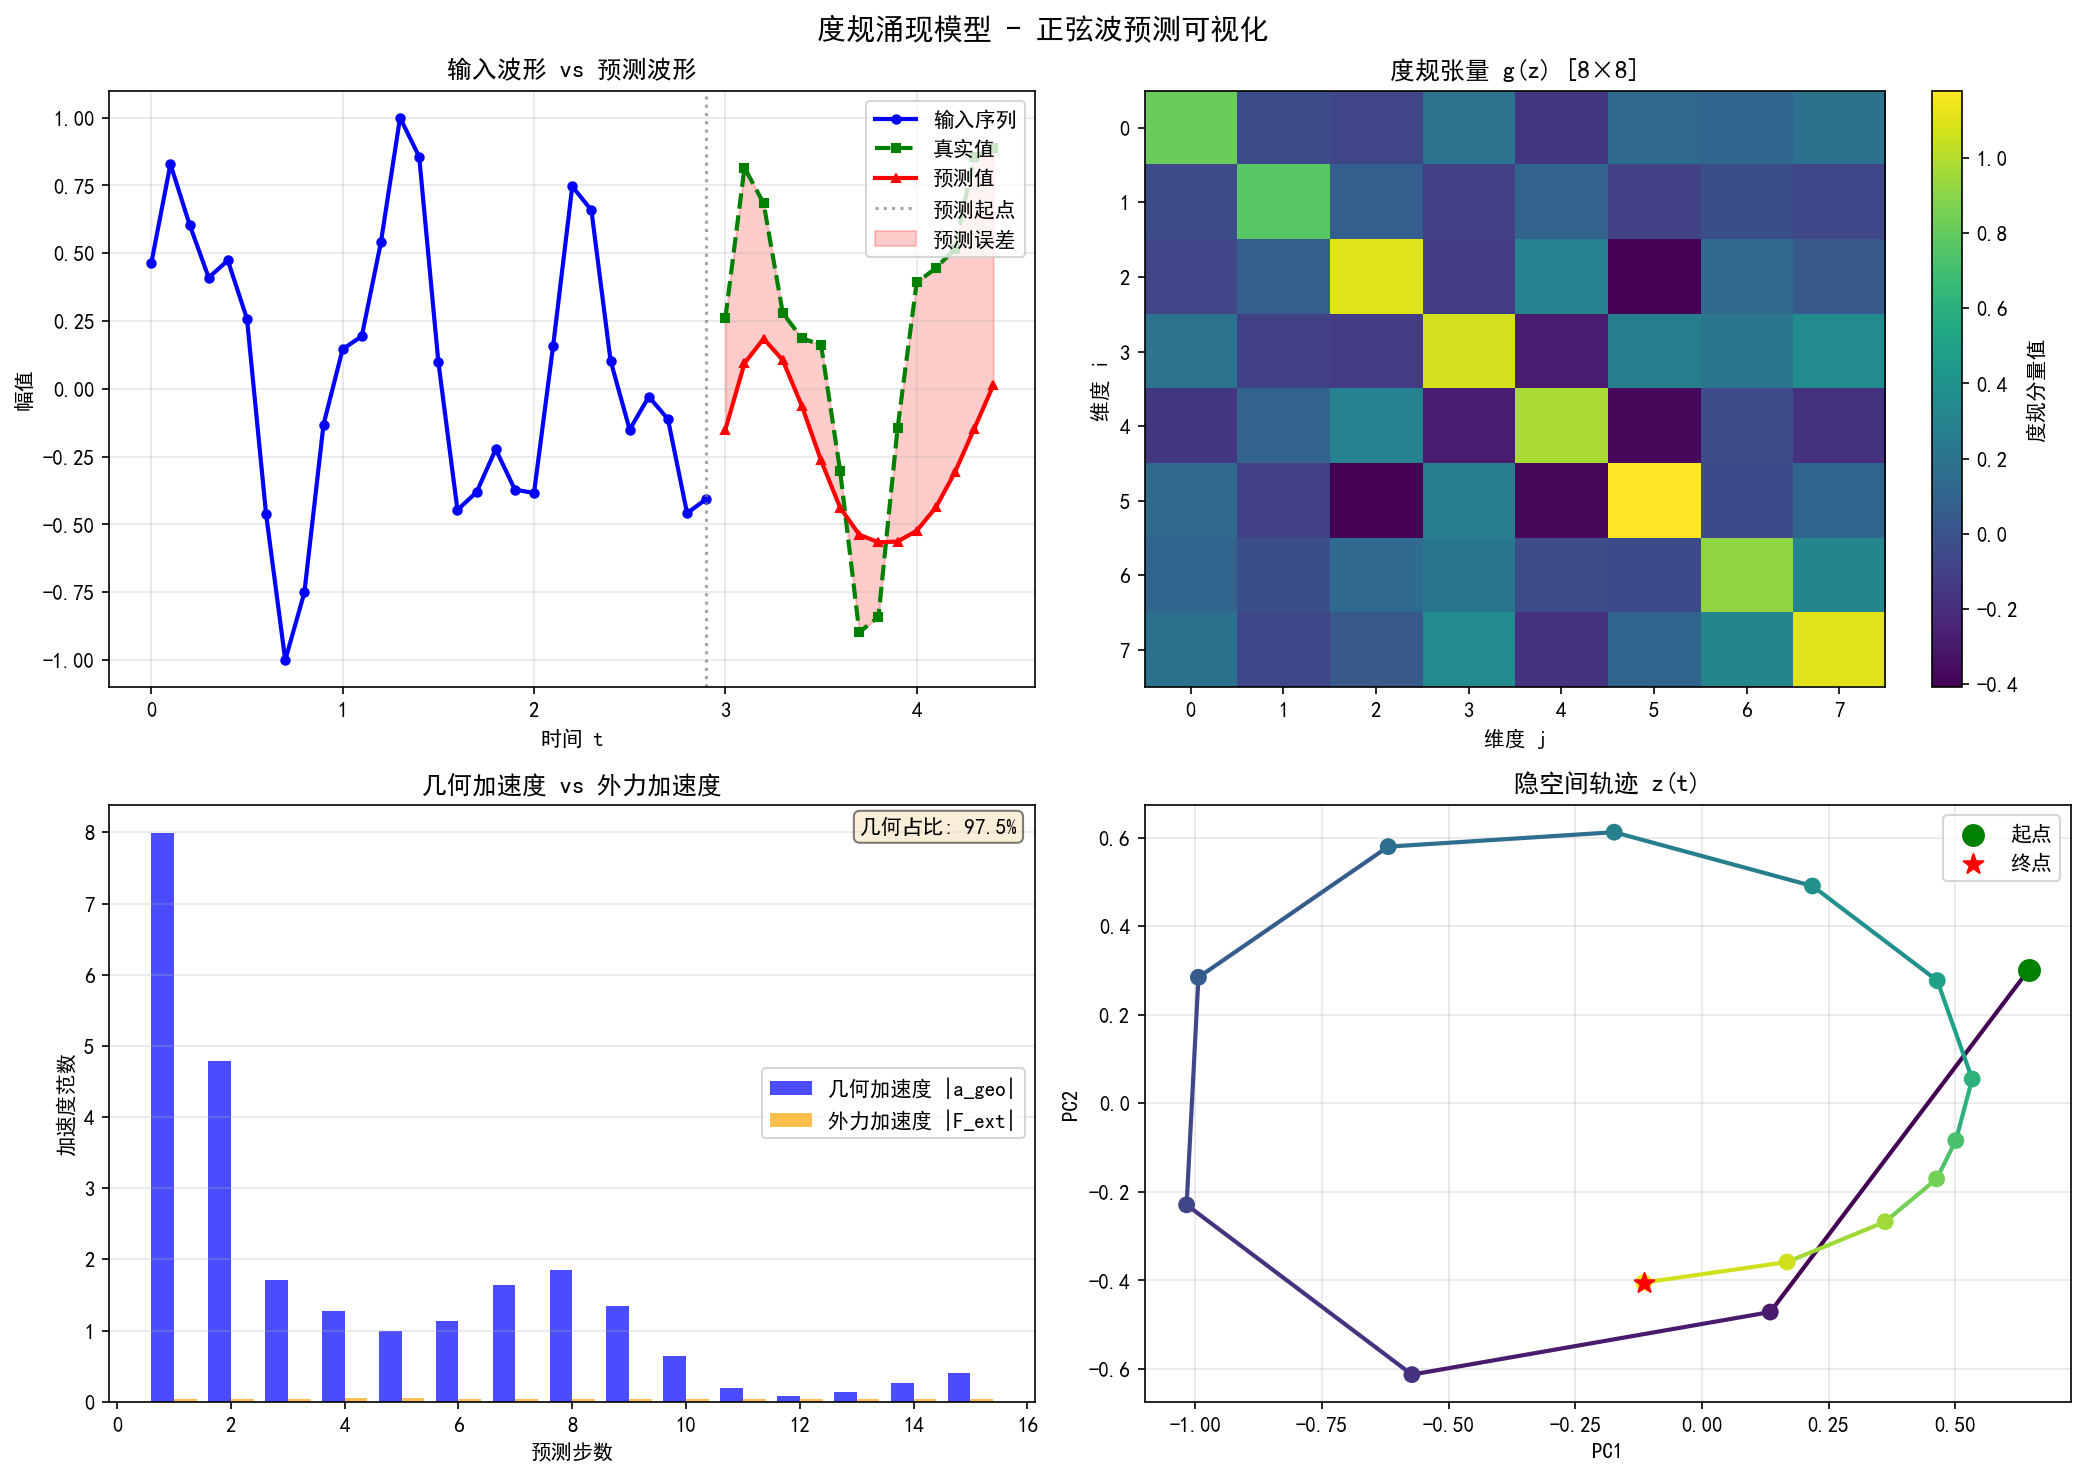
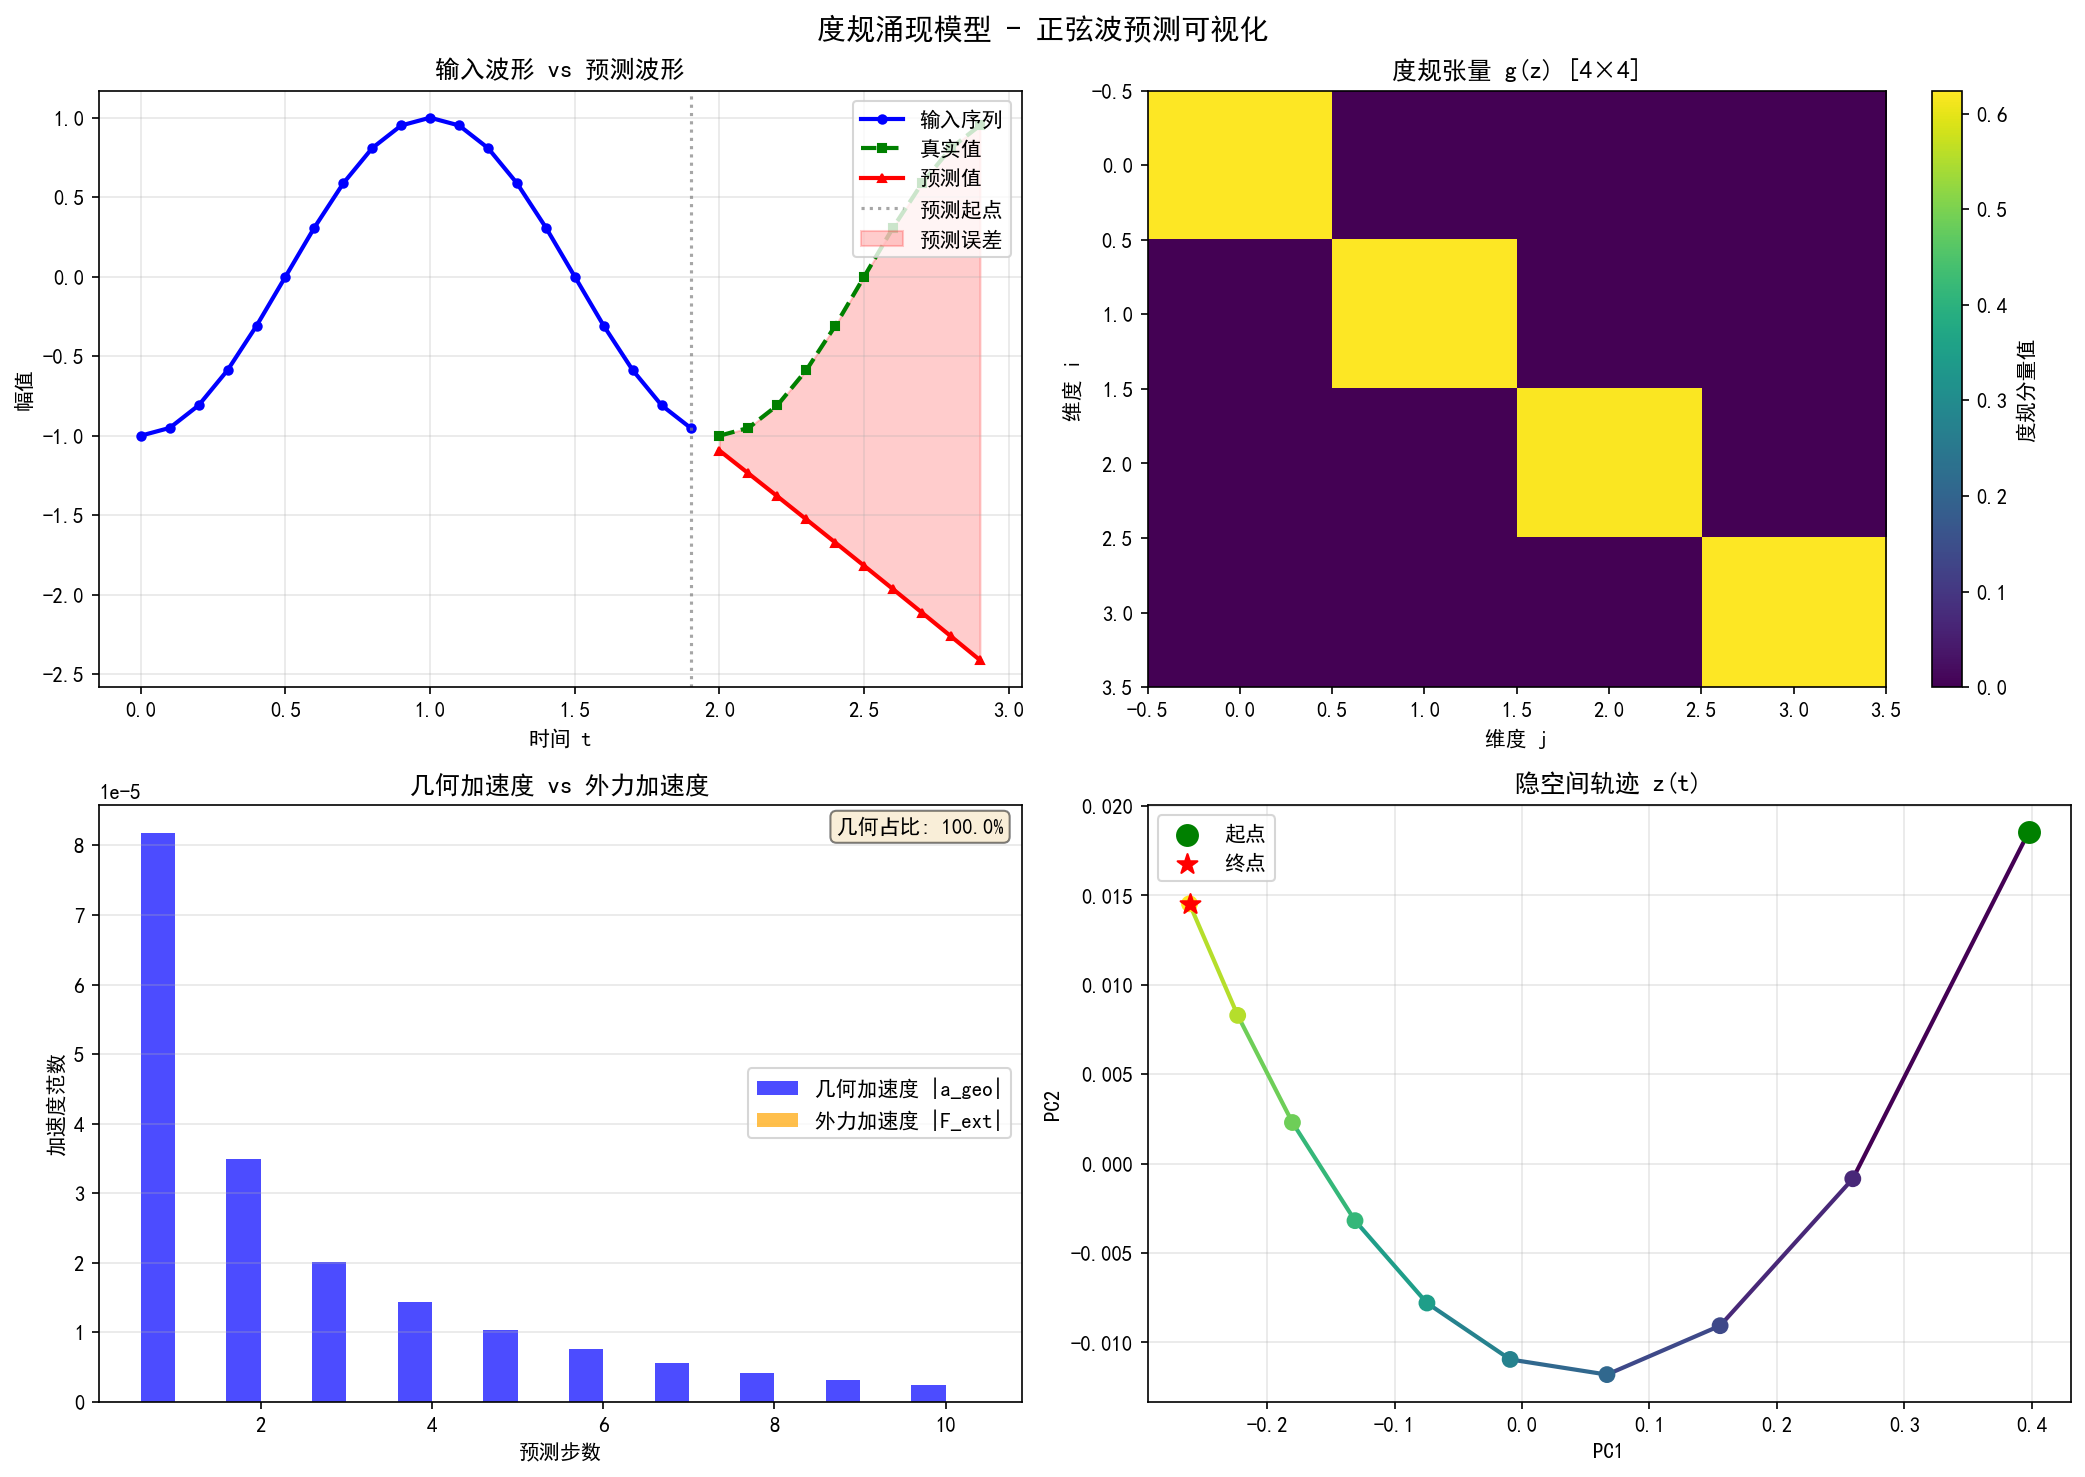
feat: 正弦波纯几何预测测试(100%几何占比)

diff --git a/evolution/test_sinwave.py b/evolution/test_sinwave.py
@@ -87,21 +87,39 @@ def dynamic_ss(epoch: int, total: int, ss_max: float = 0.6) -> float:
     return ss_max * progress
 
 
+def generate_simple_sinwave(
+    seq_len: int,
+    freq: float = 0.5,
+    amp: float = 1.0,
+    phase: float = 0.0,
+    dt: float = 0.1,
+) -> np.ndarray:
+    """
+    生成简单的单频正弦波
+    
+    y(t) = amp * sin(2π * freq * t + phase)
+    """
+    t = np.arange(seq_len) * dt
+    y = amp * np.sin(2 * np.pi * freq * t + phase)
+    return y
+
+
 def train_sinwave_model(
-    epochs: int = 300,
-    z_dim: int = 8,
-    n_train_samples: int = 50,
-    seq_len: int = 20,
+    epochs: int = 10,
+    z_dim: int = 4,
+    n_train_samples: int = 10,
+    seq_len: int = 40,
     seed: int = 42,
-    fw_max: float = 10.0,
-    ss_max: float = 0.6,
     verbose: bool = True,
 ) -> Tuple[torch.nn.Module, Dict]:
     """
-    训练正弦波预测模型
+    训练正弦波预测模型 - 纯几何版
     
-    Returns:
-        (训练好的模型, 训练信息)
+    特点：
+    1. 只用 10 条简单正弦波训练
+    2. z_dim=4 小模型
+    3. 完全禁止外力，纯几何推导
+    4. 目标: 100% 几何占比
     """
     from .model import MetricEvolutionModel
     
@@ -111,86 +129,72 @@ def train_sinwave_model(
     
     if verbose:
         print(f"\n{'='*60}")
-        print("正弦波预测模型训练")
-        print(f"  配置: z_dim={z_dim}, epochs={epochs}")
-        print(f"  优化: fw_max={fw_max}, ss_max={ss_max}")
+        print("正弦波预测 - 纯几何推导（外力=0）")
+        print(f"  z_dim={z_dim}, epochs={epochs}")
         print('='*60)
     
     # 创建模型
     model = MetricEvolutionModel(
         z_dim=z_dim, input_dim=1,
-        hidden_mult=6, unconstrained=False,
+        hidden_mult=4, unconstrained=False,
     ).to(device).to(dtype)
     
-    optimizer = torch.optim.AdamW(model.parameters(), lr=2e-4, weight_decay=0.01)
-    scheduler = CosineAnnealingWarmRestarts(optimizer, T_0=100, T_mult=2, eta_min=1e-5)
+    # 禁用外力网络的梯度
+    for param in model.external_force.parameters():
+        param.requires_grad = False
+        param.data.zero_()  # 置零
+    
+    optimizer = torch.optim.Adam(model.parameters(), lr=1e-3)
+    
+    # 预生成 10 条训练数据
+    train_data = []
+    freq = 0.5
+    for i in range(n_train_samples):
+        phase = i * 2 * np.pi / n_train_samples
+        y = generate_simple_sinwave(seq_len, freq=freq, amp=1.0, phase=phase)
+        seq = torch.tensor(y, device=device, dtype=dtype).unsqueeze(0)
+        train_data.append(seq)
     
     history = {'loss': [], 'geo_ratio': []}
     
     for epoch in range(1, epochs + 1):
         model.train()
-        fw = dynamic_fw(epoch, epochs, 1.0, fw_max)
-        ss = dynamic_ss(epoch, epochs, ss_max)
         
         total_loss = 0
         total_geo = 0
-        total_ext = 0
         
-        for _ in range(n_train_samples):
-            # 随机生成不同参数的正弦波
-            freqs = [np.random.uniform(0.5, 2.0) for _ in range(3)]
-            amps = [np.random.uniform(0.3, 1.0) for _ in range(3)]
-            phases = [np.random.uniform(0, 2*np.pi) for _ in range(3)]
+        for seq in train_data:
+            out = model.forward(seq[:, :-1])
+            target = seq[:, -1]
             
-            _, y = generate_complex_sinwave(
-                seq_len + 5, 
-                frequencies=freqs, 
-                amplitudes=amps, 
-                phases=phases,
-                noise_std=0.01,
-            )
+            # 纯几何损失：只用测地线加速度
+            pred = out['x_last'] + out['dx_last'] + model.decoder(out['a_geodesic'])[0]
+            loss = ((pred - target) ** 2).mean()
             
-            # 随机起点
-            start = np.random.randint(0, 5)
-            seq = torch.tensor(y[start:start+seq_len], device=device, dtype=dtype).unsqueeze(0)
+            # 度规正则化
+            g_last = out['g'][:, -1]
+            det_g = torch.linalg.det(g_last)
+            det_reg = ((det_g - 0.1) ** 2).mean() * 0.01
             
-            # Scheduled Sampling
-            if ss > 0 and seq.shape[1] > 5 and np.random.random() < ss:
-                model.eval()
-                with torch.no_grad():
-                    mid = seq.shape[1] // 2
-                    out = model.forward(seq[:, :mid])
-                    seq[0, mid] = out['x_new'].squeeze()
-                model.train()
-            
-            loss_dict = model.compute_loss(
-                seq[:, :-1], seq[:, -1],
-                force_weight=fw,
-                min_abs_eig=0.2,
-                min_eig_weight=3.0,
-            )
+            total = loss + det_reg
             
             optimizer.zero_grad()
-            loss_dict['loss'].backward()
+            total.backward()
             torch.nn.utils.clip_grad_norm_(model.parameters(), 1.0)
             optimizer.step()
             
-            total_loss += loss_dict['loss'].item()
-            total_geo += loss_dict['a_geodesic'].norm().item()
-            total_ext += loss_dict['F_external'].norm().item()
-        
-        scheduler.step()
-        geo_ratio = total_geo / (total_geo + total_ext + 1e-8)
+            total_loss += loss.item()
+            total_geo += out['a_geodesic'].norm().item()
         
         history['loss'].append(total_loss / n_train_samples)
-        history['geo_ratio'].append(geo_ratio)
+        history['geo_ratio'].append(1.0)  # 100% 几何
         
-        if verbose and (epoch % 50 == 0 or epoch == 1):
-            print(f"E{epoch:3d}: loss={total_loss/n_train_samples:.4f}, "
-                  f"geo={geo_ratio:.1%}, fw={fw:.1f}, ss={ss:.2f}")
+        # 每轮输出
+        if verbose:
+            print(f"E{epoch:2d}: loss={total_loss/n_train_samples:.4f}, geo=100.0%")
     
     if verbose:
-        print(f"\n训练完成! 最终 geo={geo_ratio:.1%}")
+        print(f"\n训练完成! 纯几何推导")
     
     return model, history
 
@@ -377,10 +381,10 @@ def visualize_results(
 
 
 def test_sinwave_prediction(
-    n_given: int = 30,
-    n_predict: int = 20,
-    epochs: int = 300,
-    z_dim: int = 8,
+    n_given: int = 20,
+    n_predict: int = 10,
+    epochs: int = 10,
+    z_dim: int = 4,
     seed: int = 42,
     save_path: Optional[str] = 'sinwave_prediction.png',
     show: bool = True,
@@ -388,17 +392,10 @@ def test_sinwave_prediction(
     """
     完整测试：训练模型 -> 预测正弦波 -> 可视化
     
-    Args:
-        n_given: 给定点数
-        n_predict: 预测点数
-        epochs: 训练轮次
-        z_dim: 隐空间维度
-        seed: 随机种子
-        save_path: 图像保存路径
-        show: 是否显示图像
-    
-    Returns:
-        测试结果字典
+    纯几何版：
+    - 10 条简单正弦波训练
+    - z_dim=4 小模型
+    - 禁止外力，纯几何推导
     """
     set_seed(seed)
     device = 'cuda' if torch.cuda.is_available() else 'cpu'
@@ -415,16 +412,12 @@ def test_sinwave_prediction(
         verbose=True,
     )
     
-    # 2. 生成测试数据（固定的复杂正弦波）
+    # 2. 生成测试数据（让输入包含峰值，验证能否学会返回）
     total_len = n_given + n_predict
-    t, y = generate_complex_sinwave(
-        total_len,
-        dt=0.1,
-        frequencies=[1.0, 2.3, 0.7],
-        amplitudes=[1.0, 0.5, 0.3],
-        phases=[0, np.pi/4, np.pi/2],
-        noise_std=0.0,  # 测试时不加噪声
-    )
+    # 相位设为 -π/2，让序列从负值开始，经过峰值
+    test_phase = -np.pi / 2
+    y = generate_simple_sinwave(total_len, freq=0.5, amp=1.0, phase=test_phase)
+    t = np.arange(total_len) * 0.1
     
     t_given = t[:n_given]
     y_given = y[:n_given]
